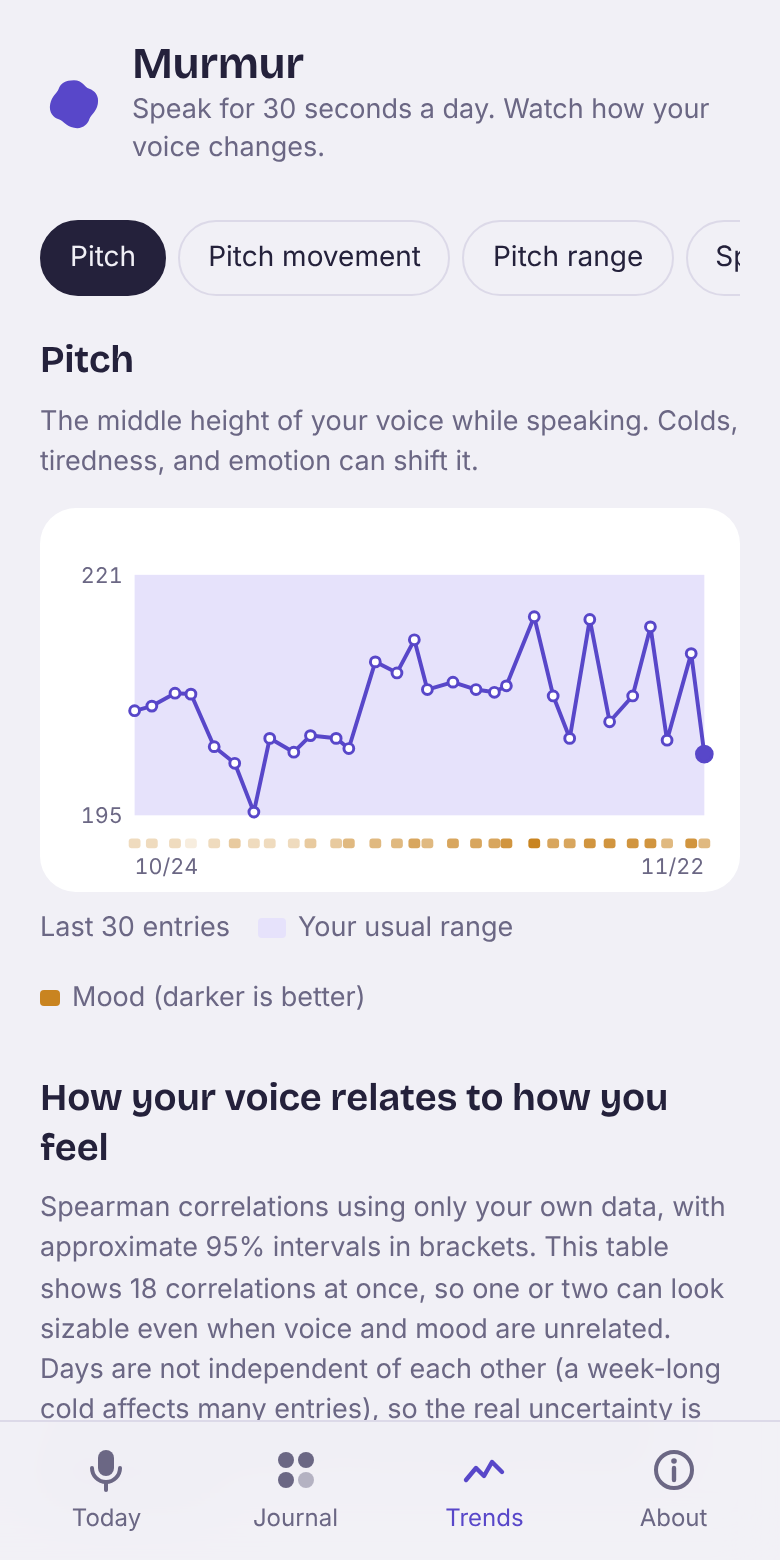
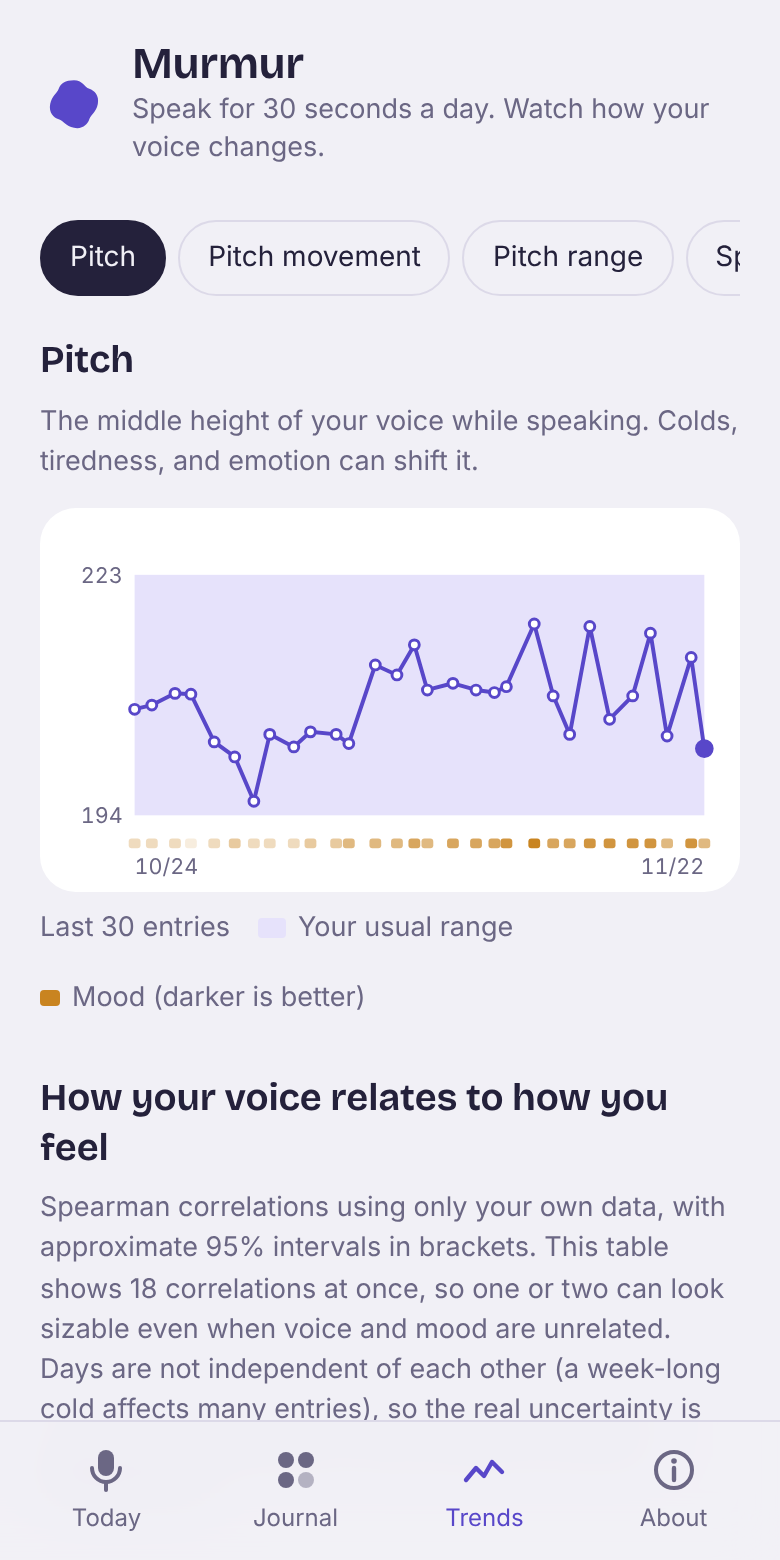
Address second review: calibrated baseline cut-off, articulation rate, SW timeout
- Baseline cut-off k(n) = 1.96 + 9.5/(n-1) scaled MADs, fitted by simulation so
  about 5% of values are flagged at any history size; tests at n = 10, 15, 30, 100
- Articulation rate divides by span minus pauses, matching its definition
- Service worker falls back to cache after 3 s; Forward-button and
  permission-prompt edge cases; note when flagged recordings are left out

Claude-Session: https://claude.ai/code/session_01KLTsNRck9QZs1fruHPTwdH

diff --git a/js/app.js b/js/app.js
@@ -1,7 +1,7 @@
 import { t, setLang, getLang, detectLang, STRINGS } from './i18n.js';
 import { Recorder, decodeToMono16k, isSupported, TARGET_SR } from './recorder.js';
 import { FEATURE_INFO, FEATURE_VERSION, median } from './features.js';
-import { personalBaseline, spearman, fmtR, mad, distinctCount } from './stats.js';
+import { personalBaseline, baselineK, spearman, fmtR, mad, distinctCount } from './stats.js';
 import { glyph, ringPath, lineChart } from './viz.js';
 import * as db from './db.js';
 
@@ -164,6 +164,12 @@ async function startRecording() {
     return render();
   }
   startRecording.busy = false;
+  // the person may have left this screen while the permission prompt was open
+  if (state.tab !== 'today' || (state.phase !== 'idle' && state.phase !== 'error')) {
+    state.recorder.cancel();
+    state.recorder = null;
+    return;
+  }
   state.levels.fill(0);
   state.phase = 'recording';
   // The time limit runs on a timer, not on animation frames, which pause in background tabs.
@@ -227,12 +233,6 @@ function cancelRecording() {
   state.phase = 'idle';
   render();
 }
-
-document.addEventListener('visibilitychange', () => {
-  // Animation frames stop while hidden; resume the ring when visible. The time limit
-  // keeps running either way.
-  if (document.visibilityState === 'visible' && state.phase === 'recording') requestAnimationFrame(tick);
-});
 
 async function savePending() {
   if (state.phase !== 'result' || !state.pending || savePending.busy) return;
@@ -684,8 +684,11 @@ async function renderDetail() {
 function viewTrends() {
   const wrap = h('section', { class: 'view trends' });
   const entries = pool();
+  const real = hasReal();
+  const flagged = state.entries.filter((e) => usable(e) && (real ? !e.demo : true) && e.features.quality && e.features.quality.flags && e.features.quality.flags.length).length;
+  const flaggedNote = flagged ? h('p', { class: 'muted small' }, t('flaggedLeftOut', flagged)) : null;
   if (entries.length < 3) {
-    add(wrap, demoBanner(), h('p', { class: 'empty' }, t('trendsEmpty')), state.entries.length ? null : h('button', { type: 'button', class: 'btn', onclick: loadDemo }, t('loadDemo')));
+    add(wrap, demoBanner(), h('p', { class: 'empty' }, t('trendsEmpty')), flaggedNote, state.entries.length ? null : h('button', { type: 'button', class: 'btn', onclick: loadDemo }, t('loadDemo')));
     return wrap;
   }
   add(wrap, demoBanner());
@@ -728,7 +731,8 @@ function viewTrends() {
   const scaleV = (v) => v * (info.scale || 1);
   const med = median(all);
   const spread = mad(all);
-  const band = all.length >= BASELINE_MIN && spread > 0 ? [scaleV(med - 2 * spread), scaleV(med + 2 * spread)] : null;
+  const kBand = baselineK(all.length);
+  const band = all.length >= BASELINE_MIN && spread > 0 ? [scaleV(med - kBand * spread), scaleV(med + kBand * spread)] : null;
   const name = t('feat')[info.key][0];
   add(wrap, 
     h('h2', { class: 'metric-title' }, name),
@@ -753,7 +757,8 @@ function viewTrends() {
       h('span', {}, t('lastN', recent.length)),
       band ? h('span', { class: 'legend-band' }, t('usualRange')) : null,
       recent.some((e) => Number.isFinite(e.mood)) ? h('span', { class: 'legend-mood' }, t('moodMarks')) : null
-    )
+    ),
+    flaggedNote
   );
 
   // links between voice and self-report
@@ -1011,7 +1016,14 @@ function render() {
 
 function onHash() {
   const tab = location.hash.replace('#', '');
-  if (tab === 'entry') return;
+  if (tab === 'entry') {
+    // reached with the Forward button after closing a detail view
+    if ($('#sheet').hidden) {
+      if (state.detailId && state.entries.some((e) => e.id === state.detailId)) renderDetail();
+      else history.replaceState(null, '', '#' + state.tab);
+    }
+    return;
+  }
   closeDetailUI();
   if (TABS.includes(tab) && tab !== state.tab) {
     if (state.phase === 'recording') cancelRecording();

diff --git a/js/stats.js b/js/stats.js
@@ -8,11 +8,17 @@ export function mad(arr) {
   return 1.4826 * median(arr.map((v) => Math.abs(v - m)));
 }
 
+// How many scaled MADs from the median count as unusual, given n earlier values.
+// With few values the median and MAD are themselves uncertain, so the cut-off widens.
+// Calibrated by simulation on normal data so that about 5% of new values are flagged
+// when nothing has changed (n = 10: 3.02, 20: 2.42, 30: 2.26, 100: 2.04).
+export function baselineK(n) {
+  return 1.96 + 9.5 / (n - 1);
+}
+
 // Compare a value to the person's own earlier history. Needs at least `minN` entries.
-// A value counts as outside the usual range when it is more than `k` scaled MADs from
-// the median (k = 2 flags roughly 5% of values when nothing has changed).
-// Returns { n, median, spread, z, band } where band is 'higher' | 'lower' | 'usual'.
-export function personalBaseline(history, value, minN = 10, k = 2) {
+// Returns { n, median, spread, z, k, band } where band is 'higher' | 'lower' | 'usual'.
+export function personalBaseline(history, value, minN = 10, kOverride) {
   const vals = history.filter((v) => Number.isFinite(v));
   if (vals.length < minN || !Number.isFinite(value)) return null;
   const m = median(vals);
@@ -23,9 +29,10 @@ export function personalBaseline(history, value, minN = 10, k = 2) {
     spread = Math.sqrt(vals.reduce((a, b) => a + (b - mean) ** 2, 0) / (vals.length - 1));
   }
   if (!(spread > 0)) return { n: vals.length, median: m, spread: 0, z: 0, band: 'usual' };
+  const k = kOverride ?? baselineK(vals.length);
   const z = (value - m) / spread;
   const band = z > k ? 'higher' : z < -k ? 'lower' : 'usual';
-  return { n: vals.length, median: m, spread, z, band };
+  return { n: vals.length, median: m, spread, z, k, band };
 }
 
 function ranks(arr) {

diff --git a/js/i18n.js b/js/i18n.js
@@ -61,6 +61,7 @@ export const STRINGS = {
     lastN: (n) => `最近 ${n} 筆`,
     usualRange: '你的平常範圍',
     moodMarks: '心情（越深越好）',
+    flaggedLeftOut: (n) => `有 ${n} 筆錄音因為爆音或背景噪音太大，沒有算進趨勢和平常範圍。它們還在紀錄裡。`,
     links: '聲音和感受的關聯',
     linksIntro:
       'Spearman 相關，只用你自己的資料，括號裡是大約 95% 區間。這裡同時看了 18 個相關，就算聲音和感受完全無關，也常會有一兩個看起來不小。每天的紀錄彼此不獨立（例如一整週都感冒），所以真實的不確定性比區間更大。灰色代表區間包含 0。',
@@ -205,6 +206,7 @@ export const STRINGS = {
     lastN: (n) => `Last ${n} entries`,
     usualRange: 'Your usual range',
     moodMarks: 'Mood (darker is better)',
+    flaggedLeftOut: (n) => `${n} recording${n === 1 ? ' was' : 's were'} left out of trends and your usual range because of clipping or background noise. ${n === 1 ? 'It is' : 'They are'} still in your journal.`,
     links: 'How your voice relates to how you feel',
     linksIntro:
       'Spearman correlations using only your own data, with approximate 95% intervals in brackets. This table shows 18 correlations at once, so one or two can look sizable even when voice and mood are unrelated. Days are not independent of each other (a week-long cold affects many entries), so the real uncertainty is larger than the intervals. Grey means the interval includes zero.',

diff --git a/sw.js b/sw.js
@@ -1,6 +1,7 @@
 // Offline support. Network first, so a new release reaches people on the next load;
 // the cache is used only when the network is unavailable.
-const CACHE = 'murmur-v2';
+const CACHE = 'murmur-v3';
+const NETWORK_TIMEOUT_MS = 3000;
 const SHELL = [
   './',
   './index.html',
@@ -42,8 +43,11 @@ self.addEventListener('activate', (e) => {
 self.addEventListener('fetch', (e) => {
   const req = e.request;
   if (req.method !== 'GET' || new URL(req.url).origin !== location.origin) return;
+  // a slow connection should not leave the app hanging: fall back to the cache after 3 s
+  const network = fetch(req);
+  const timeout = new Promise((_, reject) => setTimeout(() => reject(new Error('timeout')), NETWORK_TIMEOUT_MS));
   e.respondWith(
-    fetch(req)
+    Promise.race([network, timeout])
       .then((res) => {
         if (res && res.ok) {
           const copy = res.clone();

diff --git a/js/features.js b/js/features.js
@@ -377,7 +377,7 @@ export function analyze(input, sampleRate, opts = {}) {
     meanPauseS: round(pauses.length ? mean(pauses) : 0, 2),
     syllables: nuclei,
     speechRate: round(nuclei / Math.max(spanS, 1e-6), 2),
-    articulationRate: round(nuclei / Math.max(speechS, 1e-6), 2),
+    articulationRate: round(nuclei / Math.max(spanS - pauseS, 1e-6), 2),
     voicedFraction: round(voicedFraction, 3),
     f0MedianHz: round(median(f0Hz), 1),
     f0SdSt: round(sd(st), 2),
